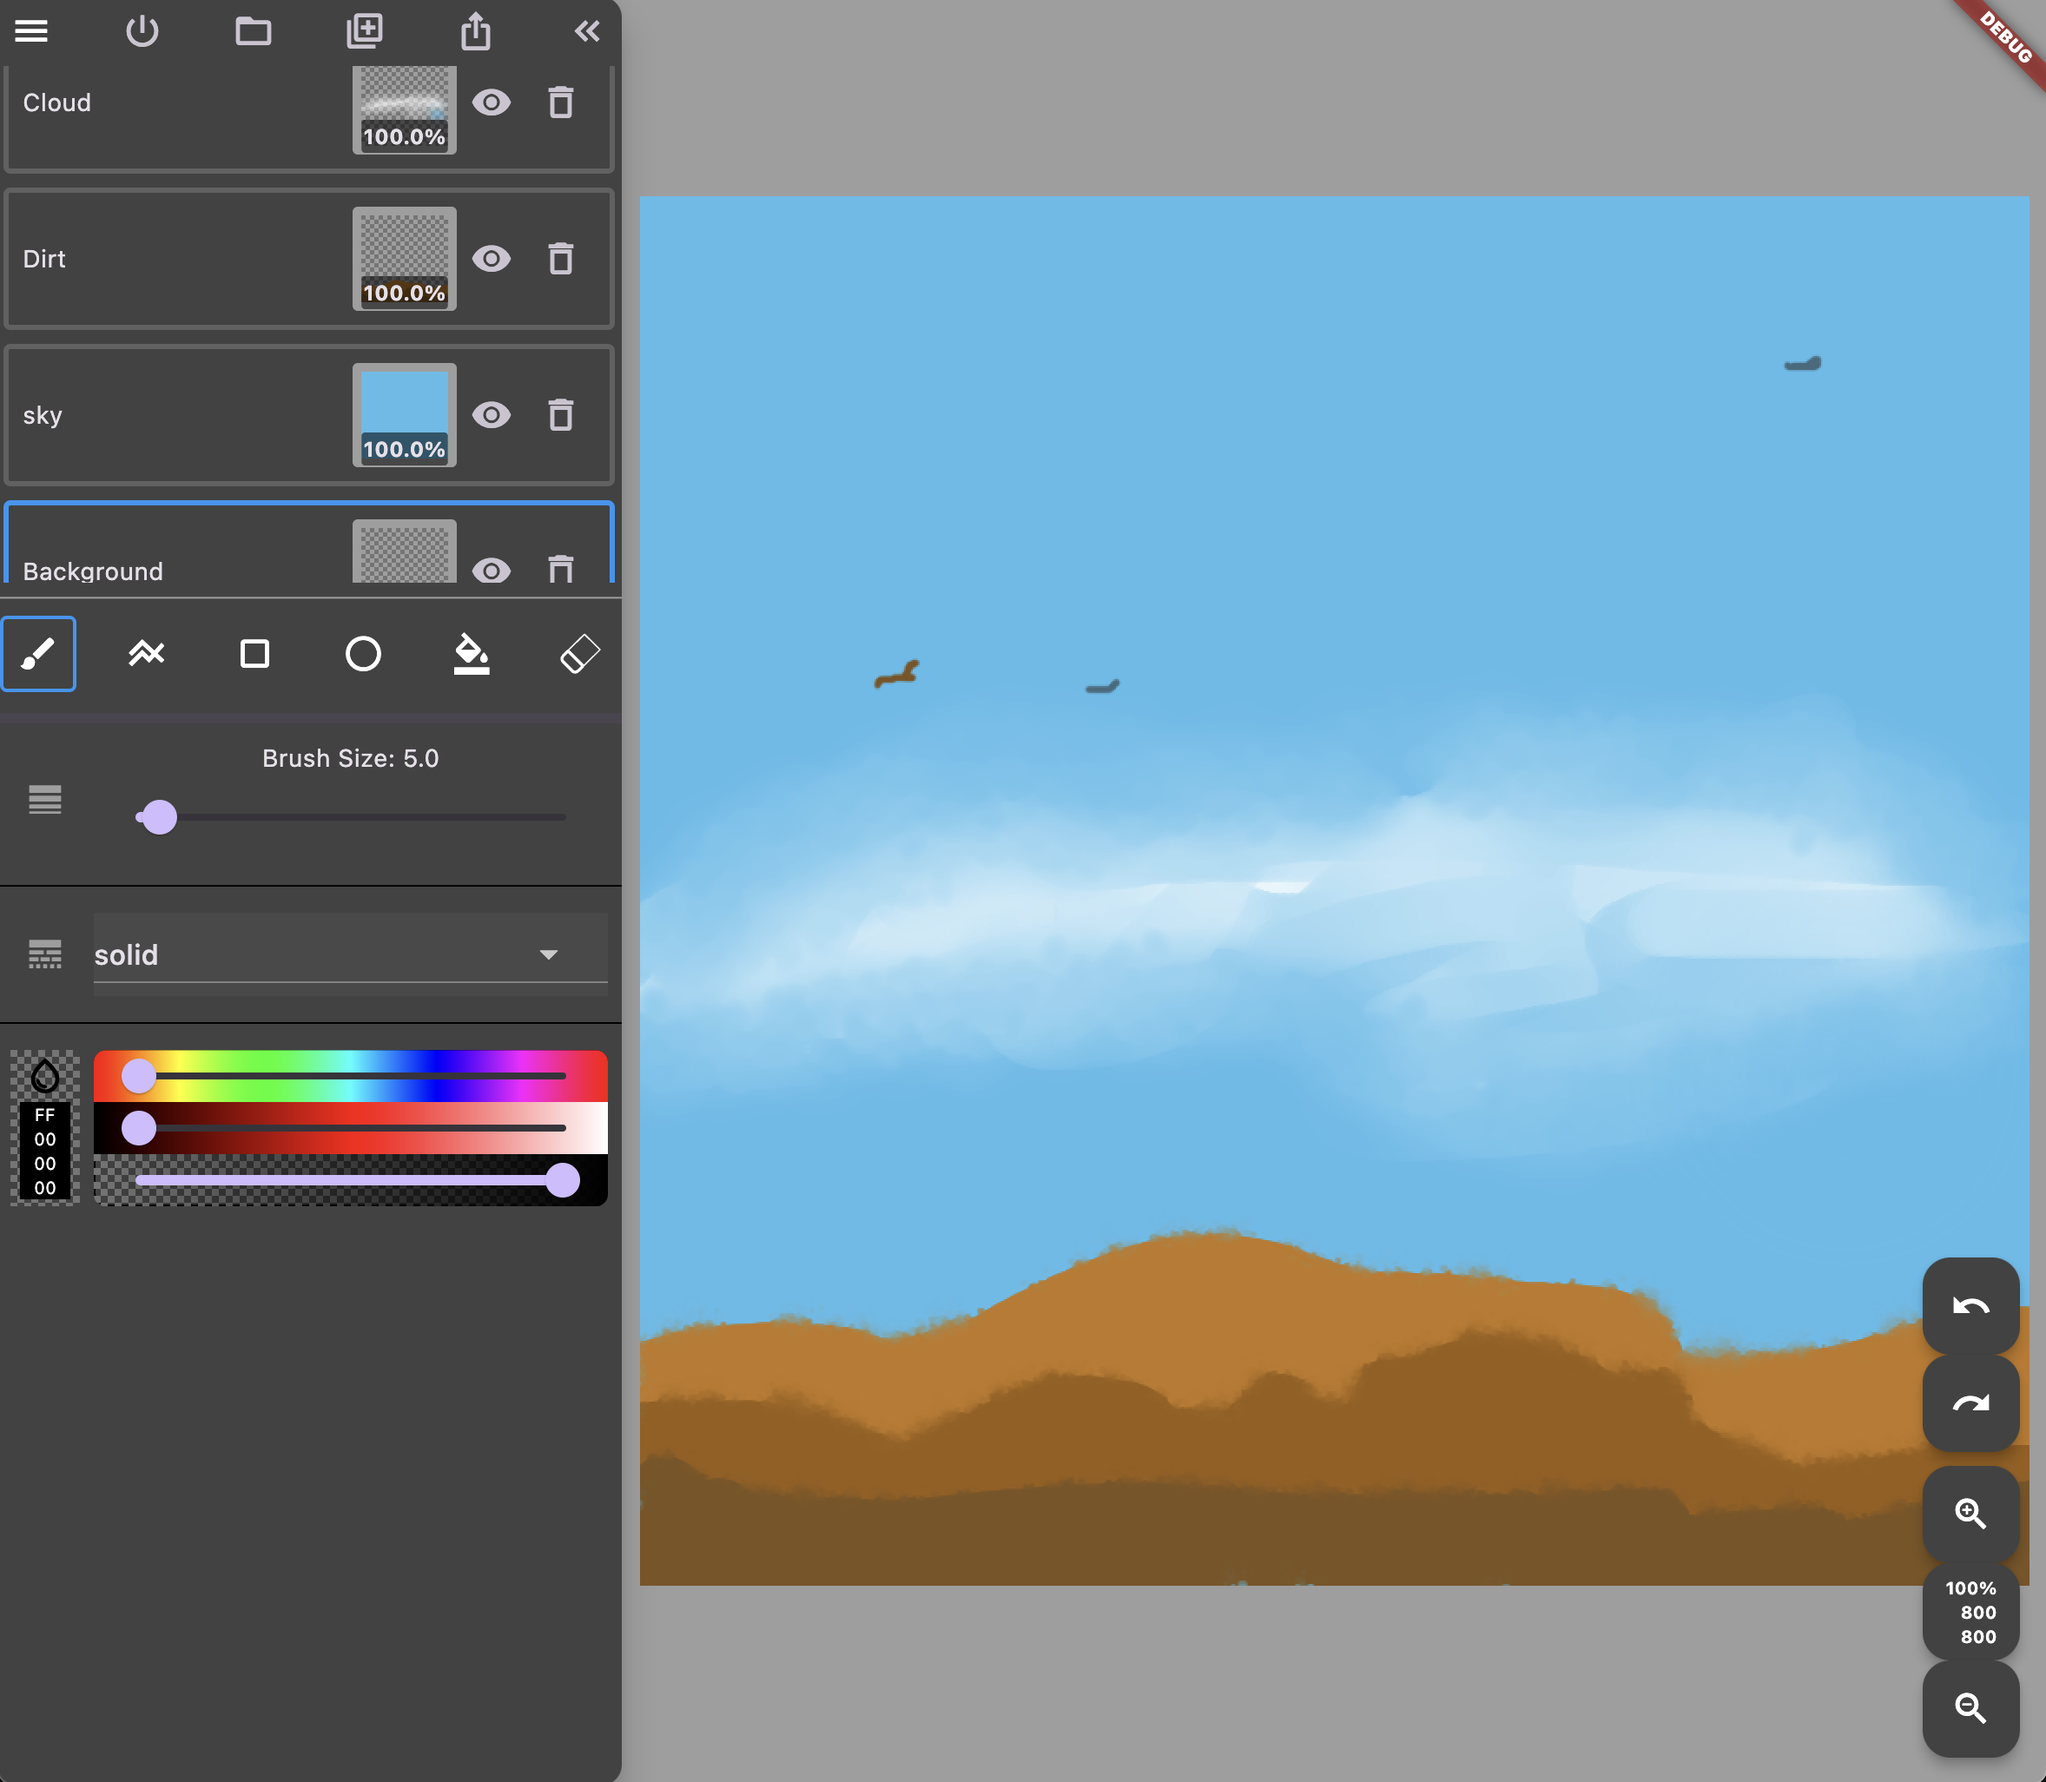
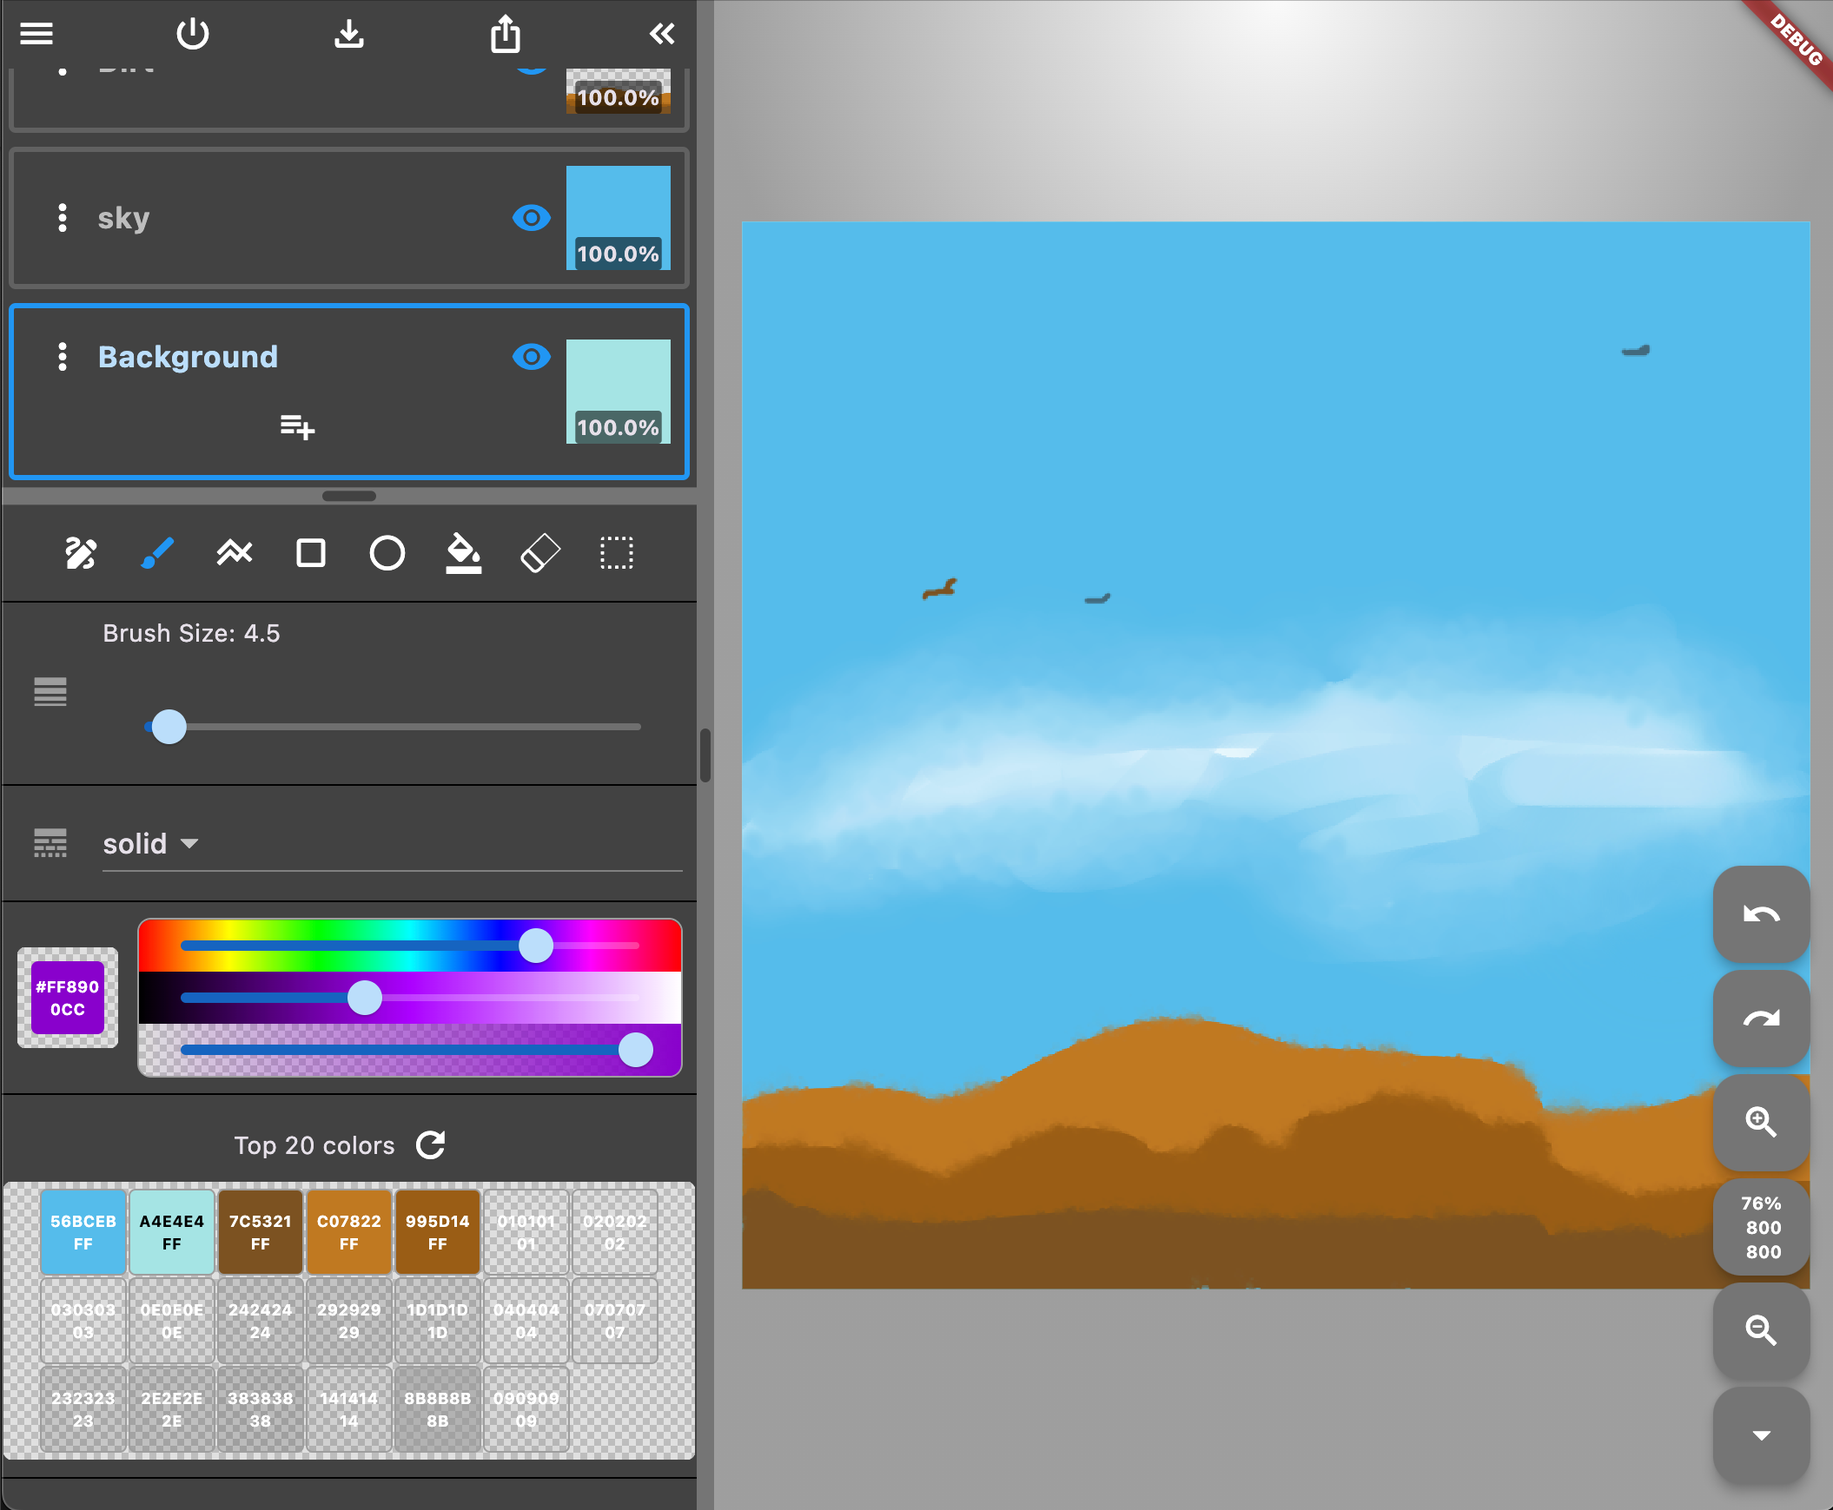
update fPaint.png image

diff --git a/CHANGELOG.md b/CHANGELOG.md
@@ -4,6 +4,12 @@
 
 All notable changes to this project will be documented in this file.
 
+## [1.0.3] - 2025-03-05
+
+### Add
+
+- Linear Gradient and Radial Gradient fill
+
 ## [1.0.2] - 2025-03-02
 
 ### Add
